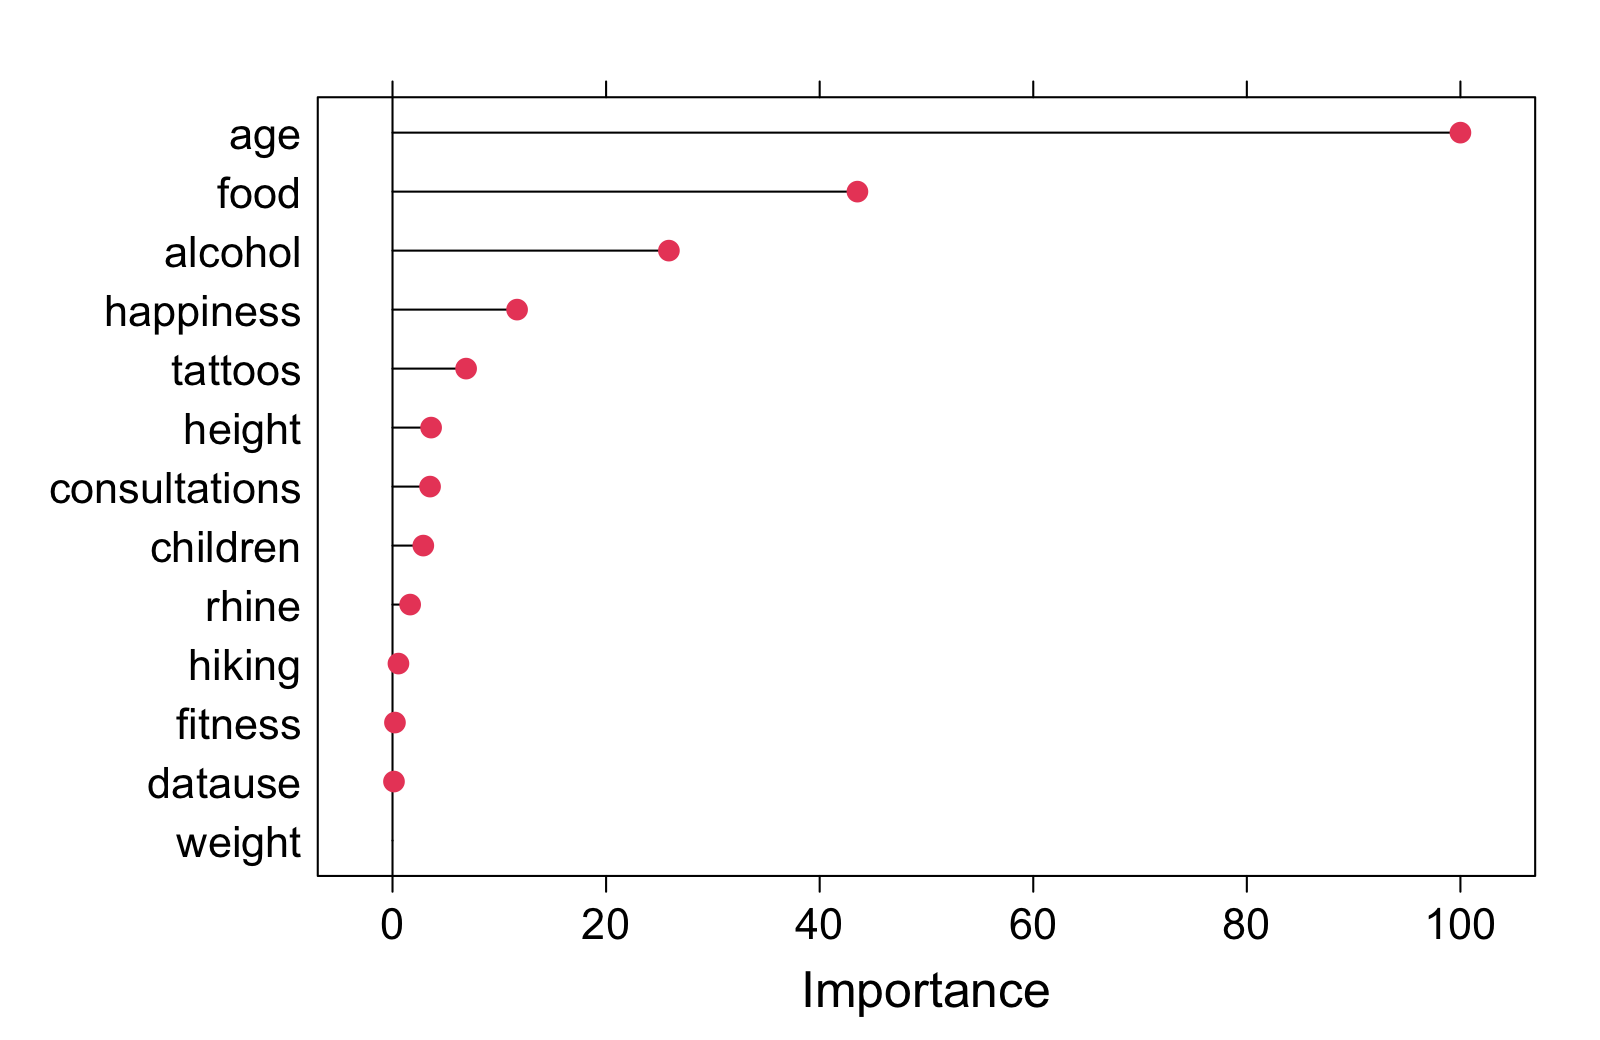
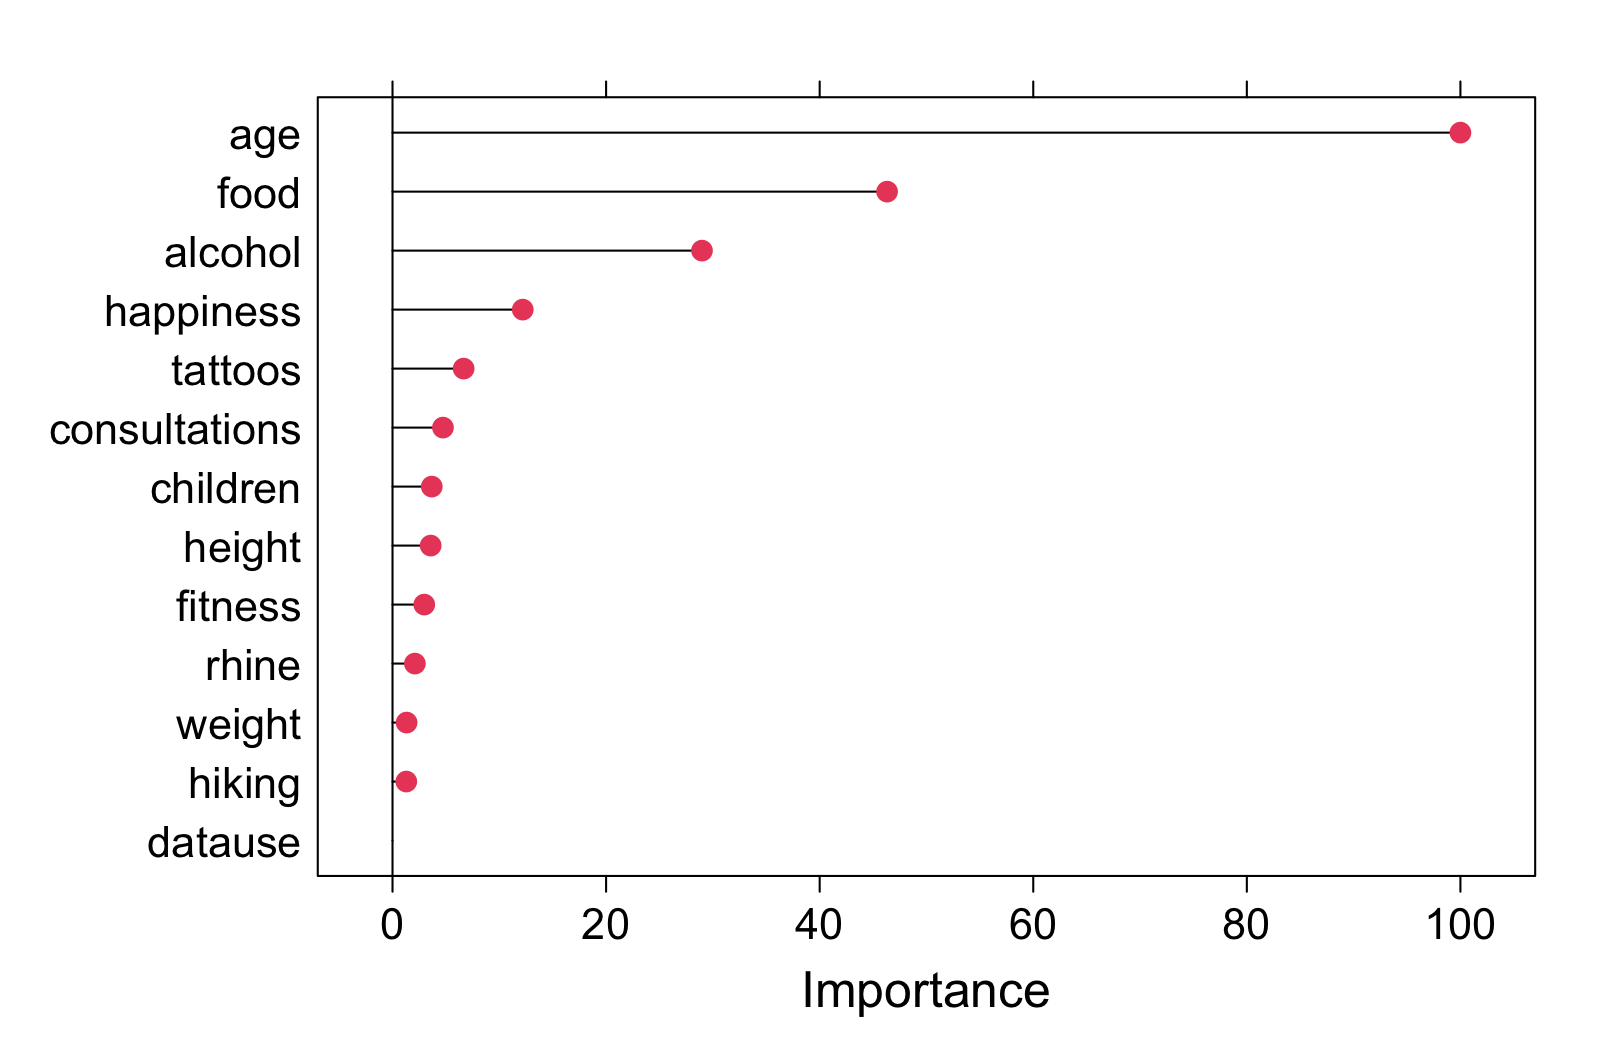
minor, features slides

diff --git a/_sessions/Features/Features.html b/_sessions/Features/Features.html
@@ -79,7 +79,7 @@ As the number of features grows...
 
 &lt;high&gt;Efficiency&lt;/high&gt; - the amount of computations grows (how much depends on the model).
 
-&lt;high&gt;Redundancy&lt;/high&gt; - the amount of redudancy grows (how much depends on the) 
+&lt;high&gt;Redundancy&lt;/high&gt; - the amount of redudancy grows (how much depends on the model). 
 
 &amp;#8594; &lt;high&gt;Small set of good predictors&lt;high&gt;
 
@@ -165,17 +165,17 @@ varImp(income_lm)
 ```
 lm variable importance
 
-           Overall
-age       100.0000
-food       43.3038
-alcohol    25.4166
-happiness  11.4773
-tattoos     6.8564
-height      2.7772
-children    2.6603
-weight      0.2702
-fitness     0.0258
-datause     0.0000
+          Overall
+age        100.00
+food        46.19
+alcohol     28.57
+happiness   12.24
+tattoos      6.68
+children     3.56
+fitness      2.90
+height       2.85
+weight       1.90
+datause      0.00
 ```
 
 ]
@@ -226,14 +226,14 @@ Outer resampling method: Bootstrapped (25 reps)
 Resampling performance over subset size:
 
  Variables  RMSE Rsquared   MAE RMSESD RsquaredSD  MAESD Selected
-         3 0.371    0.859 0.293 0.0185     0.0152 0.0144         
-         4 0.367    0.862 0.289 0.0198     0.0155 0.0159         
-         5 0.367    0.862 0.289 0.0202     0.0156 0.0161        *
-        10 0.369    0.861 0.289 0.0195     0.0155 0.0156         
-        14 0.369    0.861 0.290 0.0192     0.0152 0.0156         
+         3 0.368    0.865 0.291 0.0124     0.0153 0.0105         
+         4 0.366    0.867 0.289 0.0130     0.0153 0.0111        *
+         5 0.367    0.866 0.289 0.0128     0.0148 0.0114         
+        10 0.370    0.864 0.291 0.0116     0.0139 0.0104         
+        14 0.370    0.864 0.291 0.0114     0.0139 0.0104         
 
-The top 5 variables (out of 5):
-   age, food, alcohol, happiness, tattoos
+The top 4 variables (out of 4):
+   age, food, alcohol, happiness
 ```
 
 ]
